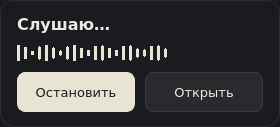
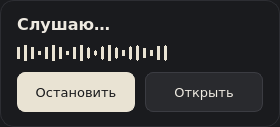
Fit command history to the available native viewport

diff --git a/src/voice_control_pc/gui.py b/src/voice_control_pc/gui.py
@@ -24,6 +24,7 @@ from PySide6.QtWidgets import (
     QMessageBox,
     QPushButton,
     QScrollArea,
+    QSizePolicy,
     QVBoxLayout,
     QWidget,
 )
@@ -276,6 +277,7 @@ class LumoWindow(QMainWindow):
         history_box.addLayout(hist_head)
         self.history = QListWidget()
         self.history.setMinimumHeight(80)
+        self.history.setSizePolicy(QSizePolicy.Policy.Expanding, QSizePolicy.Policy.Ignored)
         history_box.addWidget(self.history)
         content.addWidget(history, 1)
         self.footer = QLabel("Голос обрабатывается на этом компьютере. Записи не сохраняются.")
